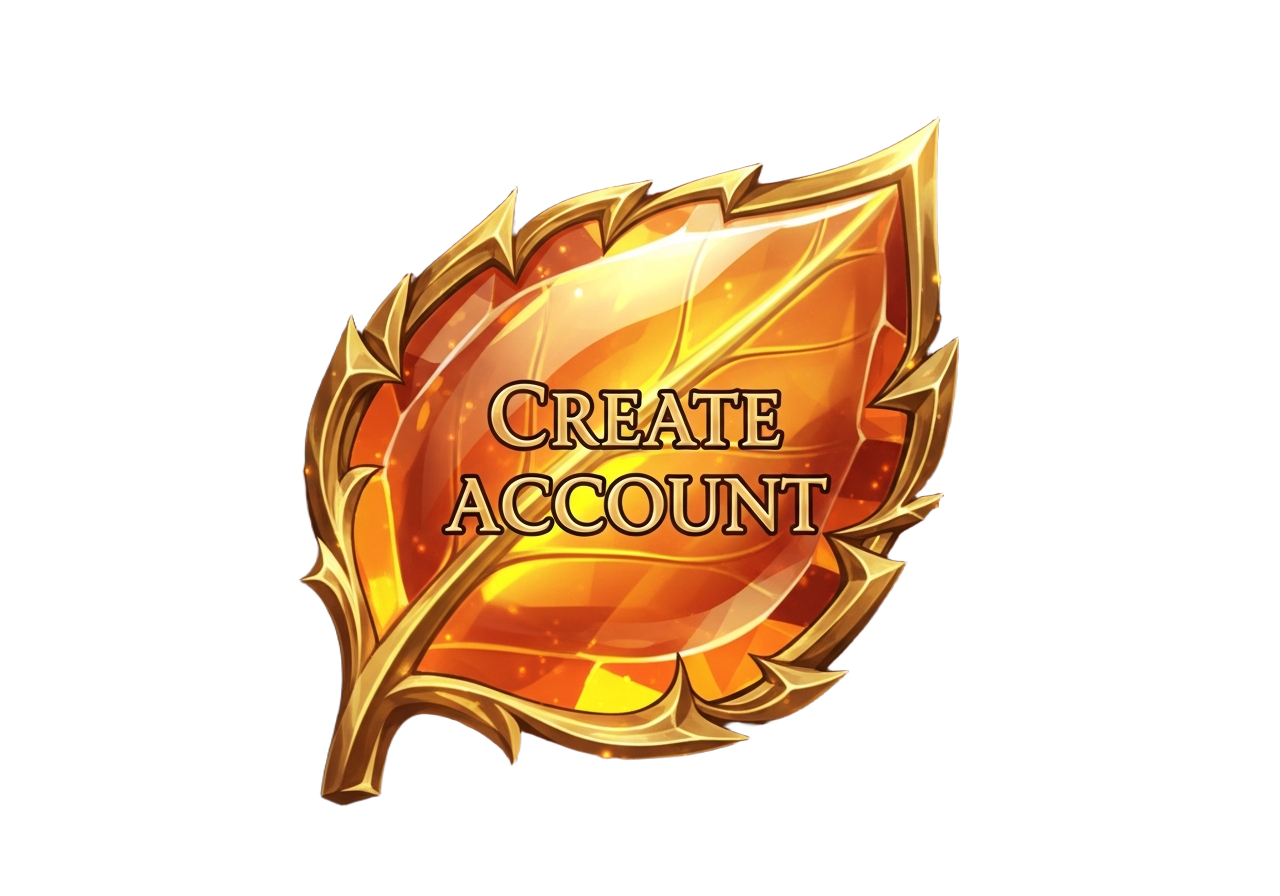
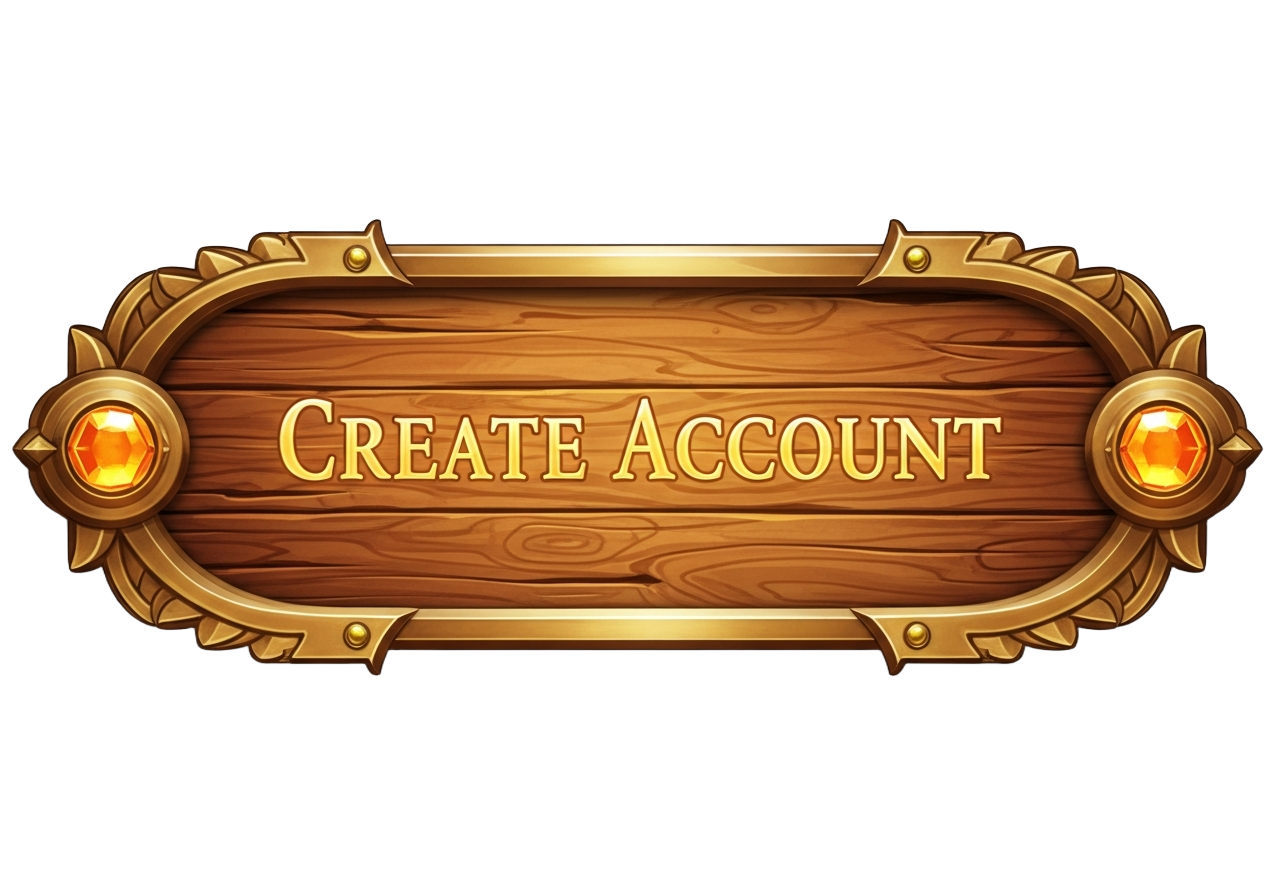
Update login page styling and button appearance
Replace existing login buttons with new, cohesive designs and adjust layout for better visual appeal.

Replit-Commit-Author: Agent
Replit-Commit-Session-Id: 58c1bff3-5cfa-48e6-85da-fb1bfe29cfab
Replit-Commit-Checkpoint-Type: full_checkpoint
Replit-Commit-Event-Id: 82997862-b596-428e-9684-c0c7af178c03
Replit-Commit-Screenshot-Url: https://storage.googleapis.com/screenshot-production-us-central1/04380d3b-f3f5-4699-a9be-ec71209f7dd3/58c1bff3-5cfa-48e6-85da-fb1bfe29cfab/vvlf3zn
Replit-Helium-Checkpoint-Created: true

diff --git a/client/src/pages/AuthPage.tsx b/client/src/pages/AuthPage.tsx
@@ -150,7 +150,7 @@ export default function AuthPage() {
       <div className="absolute inset-0 bg-black/40 z-0" />
 
       <div className="relative z-10 flex flex-col items-center w-full px-6 pt-12 pb-8 min-h-screen">
-        <div className="mb-6 text-center animate-fade-in">
+        <div className="mb-2 text-center animate-fade-in">
           <img
             src={logoImg}
             alt="Para Pets"
@@ -160,7 +160,7 @@ export default function AuthPage() {
         </div>
 
         {mode === "landing" && (
-          <div className="flex flex-col items-center gap-6 mt-8 w-full animate-slide-up">
+          <div className="flex flex-col items-center gap-3 mt-2 w-full animate-slide-up">
             <p className="font-fantasy text-[#c8d8b0] text-center text-sm tracking-wider px-4 leading-relaxed">
               A world of magical companions awaits.
               <br />Embark on your journey now.
@@ -169,7 +169,7 @@ export default function AuthPage() {
             <button
               data-testid="button-signin"
               onClick={() => setMode("login")}
-              className="w-[70%] max-w-[280px] transition-transform duration-150 active:scale-93"
+              className="w-[72%] max-w-[290px] transition-transform duration-150 active:scale-95"
               style={{ background: "none", border: "none", cursor: "pointer" }}
             >
               <img src={signInBtn} alt="Sign In" className="w-full h-auto object-contain drop-shadow-lg" />
@@ -178,7 +178,7 @@ export default function AuthPage() {
             <button
               data-testid="button-create-account"
               onClick={() => setMode("register")}
-              className="w-[70%] max-w-[280px] transition-transform duration-150 active:scale-93"
+              className="w-[72%] max-w-[290px] transition-transform duration-150 active:scale-95"
               style={{ background: "none", border: "none", cursor: "pointer" }}
             >
               <img src={createAccountBtn} alt="Create Account" className="w-full h-auto object-contain drop-shadow-lg" />